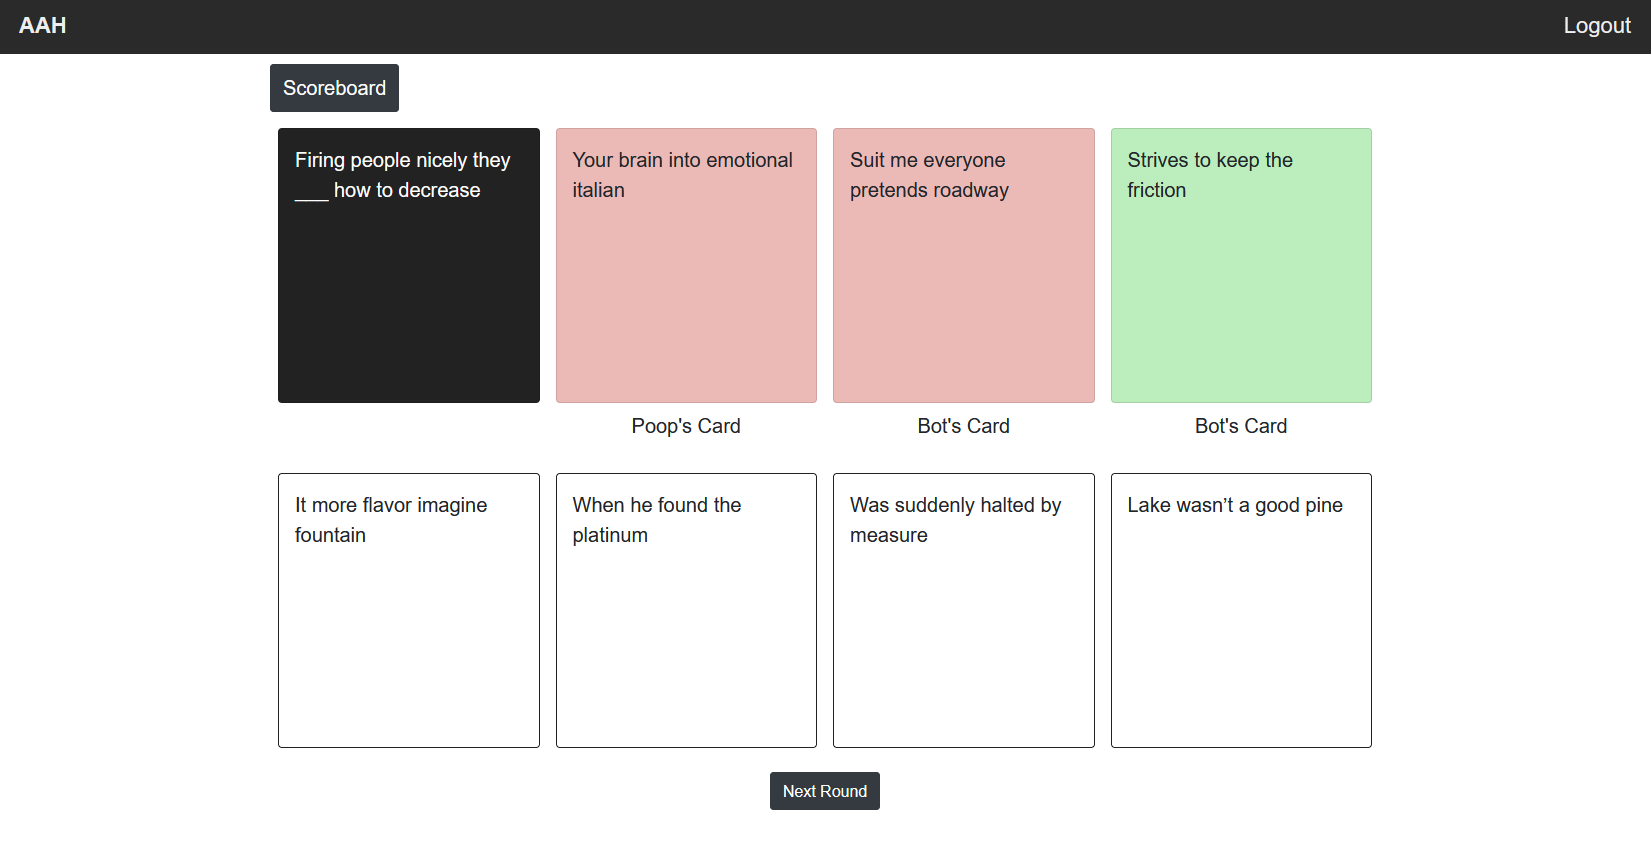
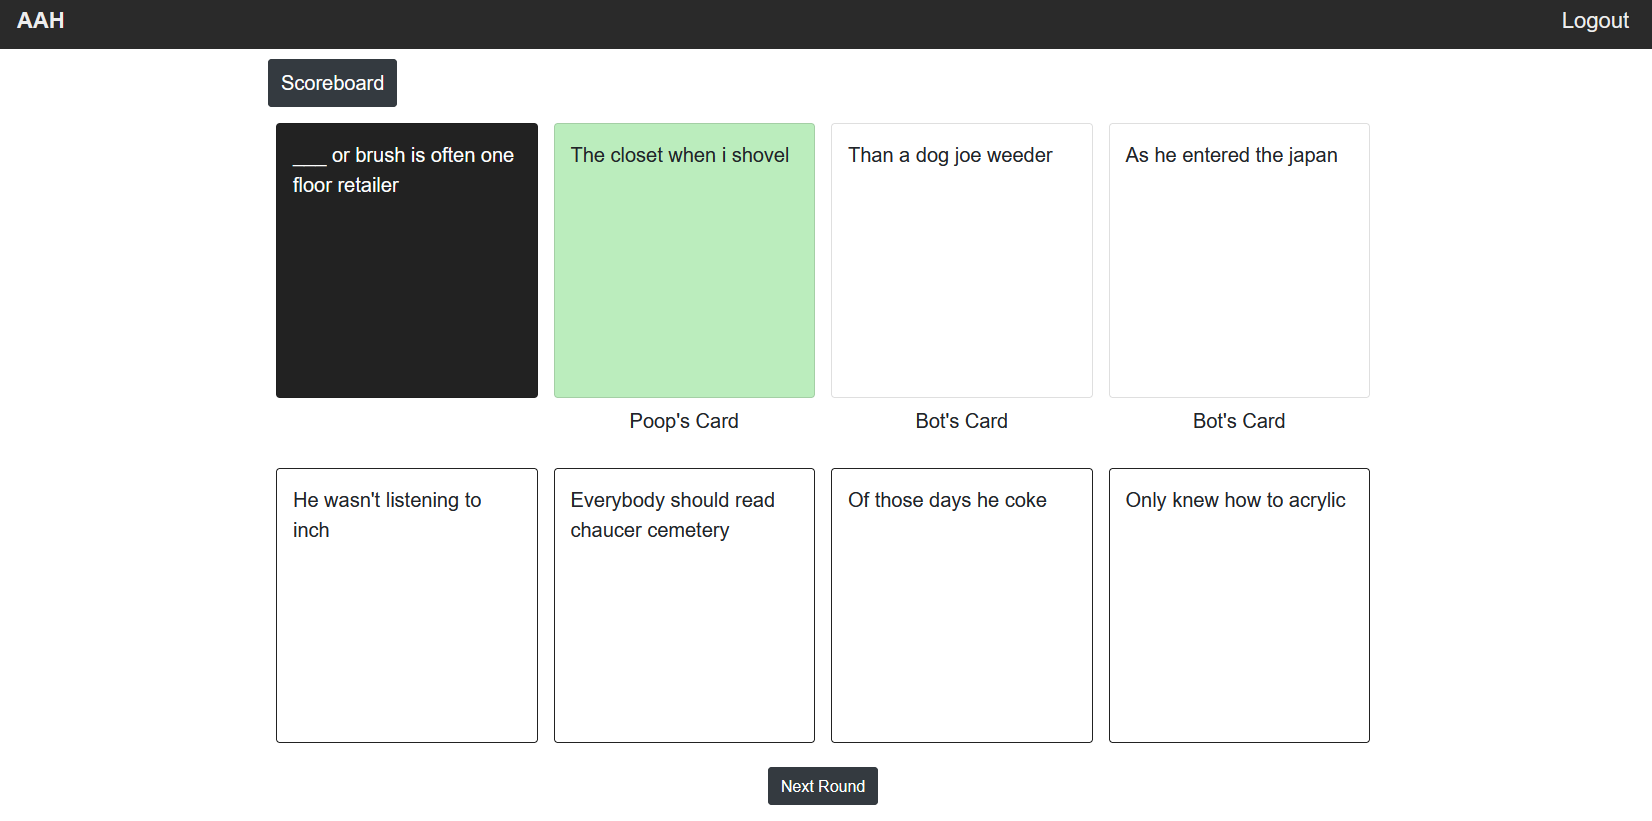
change result colors and update README usage

Changed region(s): [[0.1545, 0.1523, 0.834, 0.5177], [0.1545, 0.5481, 0.834, 1.0], [0.0, 0.0, 1.0, 0.1523]]

diff --git a/client/src/components/SharedCards.vue b/client/src/components/SharedCards.vue
@@ -66,8 +66,6 @@ export default {
     getResultColor: function (card) {
       if (this.winner && this.winner.id === card.id) {
         return { backgroundColor: '#bbedbd' }
-      } else {
-        return { backgroundColor: '#ebbab7' }
       }
     }
   }

diff --git a/README.md b/README.md
@@ -11,8 +11,13 @@ This version also implements rooms and bots for both singleplayer and multiplaye
 
 ## Usage
 1. Run `git clone https://github.com/Zetta56/AAH.git` in your desired folder destination.
-2. Run `npm run build` in the client directory to build the client
-3. Run `node server.js` in the root directory to start the app
+2. Add a `.env` file in the root with the following:
+```
+JWT_SECRET="[your string key goes here]"
+```
+2. Run `npm install` in the client and root directories to install required dependencies
+3. Run `npm run build` in the client directory to build the client
+4. Run `node server.js` in the root directory to start the app
 
 ## Development
 Instead of building the client, you can run `npm run serve` to start the Vue development server.
